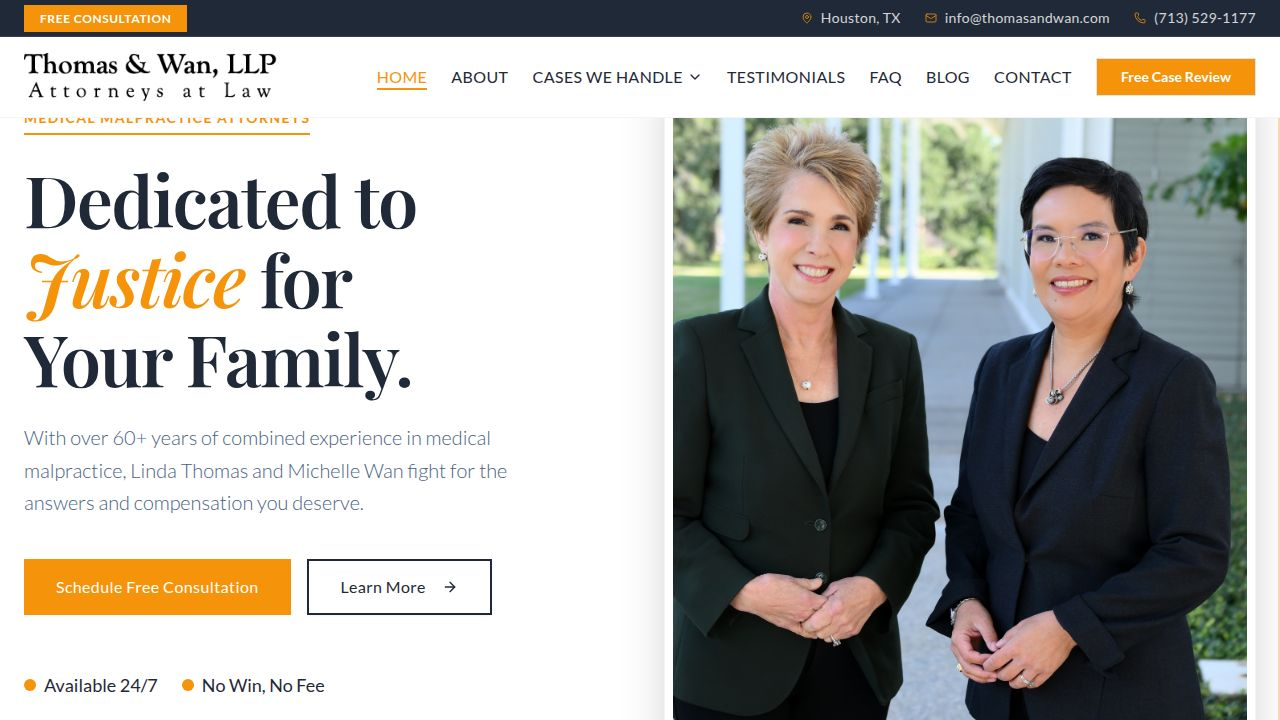
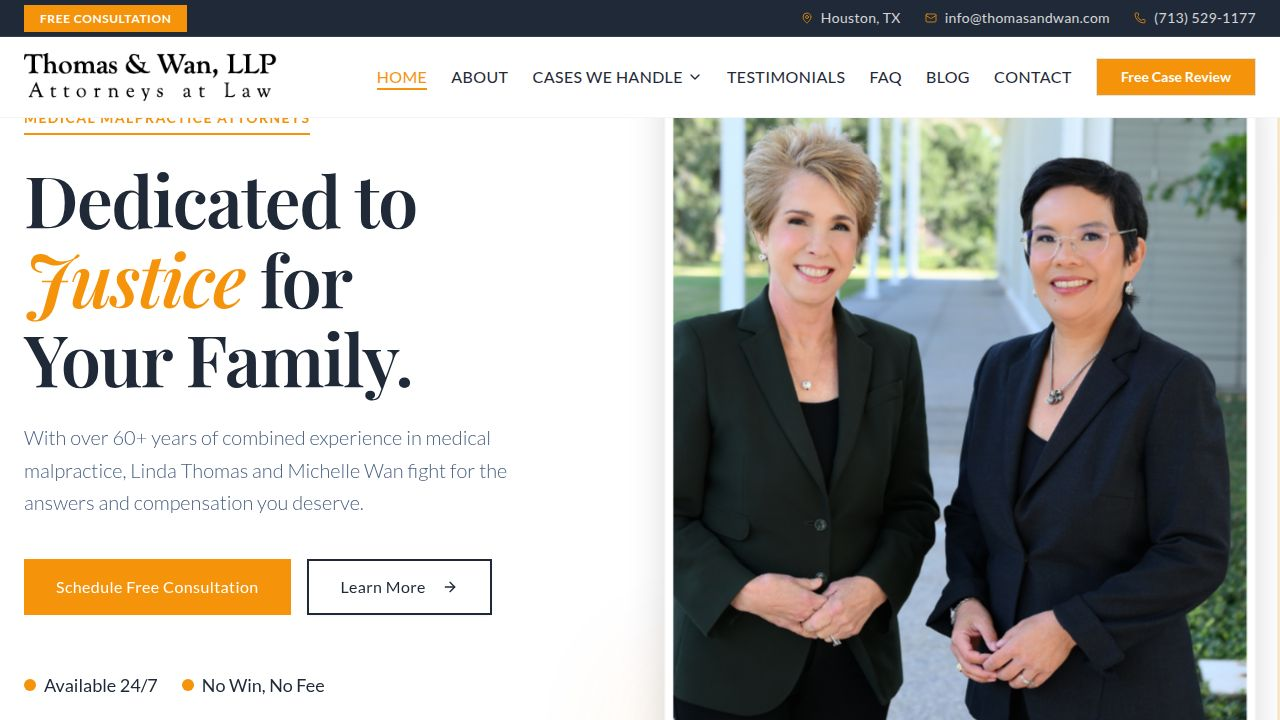
Make the mobile phone number more prominent in the header
Increase font size, icon size, and font weight for the phone number displayed in the mobile navigation bar, and remove hidden attribute to ensure it's always visible.

Replit-Commit-Author: Agent
Replit-Commit-Session-Id: a0ecfbb5-3d98-498f-bd23-18c68da33166
Replit-Commit-Checkpoint-Type: full_checkpoint
Replit-Commit-Event-Id: 5b298dc3-ef13-4587-b7fe-aac200acba9f
Replit-Commit-Screenshot-Url: https://storage.googleapis.com/screenshot-production-us-central1/c2cc1403-2177-4233-8c7d-12b18c71f9fa/a0ecfbb5-3d98-498f-bd23-18c68da33166/W5NsfX5
Replit-Helium-Checkpoint-Created: true

Changed region(s): [[0.0312, 0.9472, 0.0938, 0.9778], [0.2812, 0.7944, 0.3125, 0.825], [0.1875, 0.9472, 0.2188, 0.9778]]

diff --git a/client/src/components/Navigation.tsx b/client/src/components/Navigation.tsx
@@ -174,10 +174,10 @@ export default function Navigation() {
           </div>
 
           {/* Mobile Phone & Menu Toggle */}
-          <div className="lg:hidden flex items-center gap-3">
-            <a href="tel:713-529-1177" className="flex items-center gap-1.5 text-primary font-medium text-sm">
-              <Phone className="w-4 h-4 text-secondary" />
-              <span className="hidden sm:inline">(713) 529-1177</span>
+          <div className="lg:hidden flex items-center gap-4">
+            <a href="tel:713-529-1177" className="flex items-center gap-2 text-primary font-bold text-base">
+              <Phone className="w-5 h-5 text-secondary" />
+              <span>(713) 529-1177</span>
             </a>
             <button
               className="text-primary"
